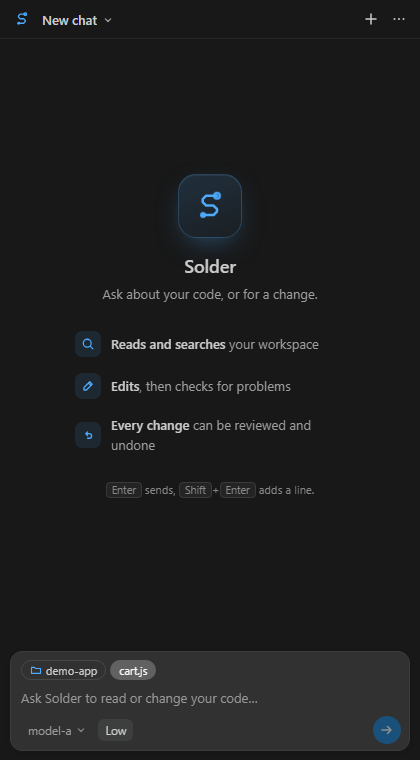
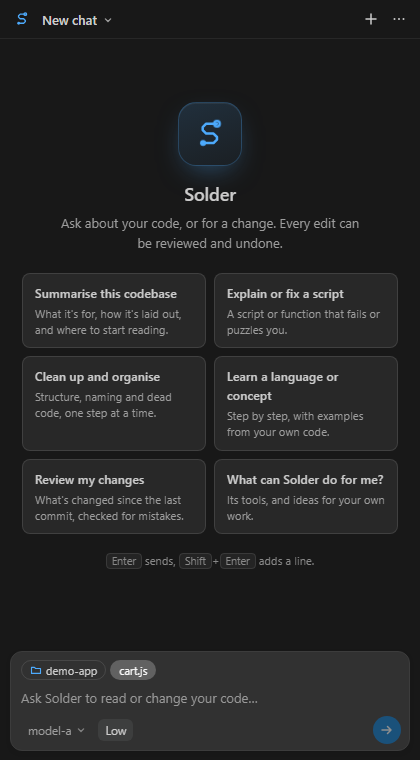
Starter cards on a new chat, as in Alloy
Six cards on the welcome screen, each sending a premade prompt and starting a chat
named after it: summarise this codebase, explain or fix a script, clean up and
organise (a plan first, nothing changed until you choose), learn a language or
concept, review my changes (new: Solder's changes tool), and what can Solder do for
me. The prompts live in prompt.js under the pin; the ask-first ones ask one to three
questions at a time, as Alloy's do. Theme-only colours, staggered entrance, lift on
hover; two columns that drop to one in a narrow panel.
Live (terra and sol): the review found the planted bug both times; the clean-up
changed nothing and proposed a plan both times; the summary read only a few files;
"what can Solder do" now says it doesn't run commands.

Changed region(s): [[0.0619, 0.1211, 0.9286, 0.6961], [0.2476, 0.7263, 0.7429, 0.7566]]

diff --git a/src/prompt.js b/src/prompt.js
@@ -286,6 +286,37 @@ searching again with other words.`,
     `Removed ${file}` + (files === null ? "" : ` (a folder with ${files.toLocaleString("en-US")} file${files === 1 ? "" : "s"})`) + ".",
 };
 
+/**
+ * The cards on a new chat's screen: clicking one sends its prompt, in the user's own words, and the chat is
+ * named after its title. Ask-first prompts ask one to three questions at a time, as Alloy's do.
+ */
+const STARTERS = [
+  { id: "summary", title: "Summarise this codebase", blurb: "What it's for, how it's laid out, and where to start reading.",
+    prompt: "Give me an overview of this codebase: what it's for, how it's organised, the main parts and how they fit \
+together, and where I should start reading. Look at its structure and key files first (outlines help with big ones), \
+read only what you need, and keep it to a short summary with file paths." },
+  { id: "script", title: "Explain or fix a script", blurb: "A script or function that fails or puzzles you.",
+    prompt: "I have a script or piece of code I'd like explained or fixed. Ask me where it is, what it should do and \
+what goes wrong (an error message, or what it does instead), one to three questions at a time. Read it before you \
+suggest anything, explain what you find in plain words, and tell me what you'd change before you change it." },
+  { id: "cleanup", title: "Clean up and organise", blurb: "Structure, naming and dead code, one step at a time.",
+    prompt: "I'd like to clean up and organise this codebase. Look at how it's laid out first, then suggest a short \
+plan: what you'd rename, move, merge or remove, and why, the most worthwhile first. Don't change anything until I've \
+said which parts to do; then do them one at a time and check for problems after each." },
+  { id: "learn", title: "Learn a language or concept", blurb: "Step by step, with examples from your own code.",
+    prompt: "I'd like to learn a coding language or concept. Ask me which one and what I already know, one to three \
+questions at a time. Then teach it step by step at my pace, with short examples, using code from this workspace where \
+it helps, and check I've understood before moving on." },
+  { id: "review", title: "Review my changes", blurb: "What's changed since the last commit, checked for mistakes.",
+    prompt: "Review my uncommitted changes. Look at what's changed since the last commit, read around the changes \
+where you need to, and tell me about anything that looks wrong or risky (bugs, missed cases, leftovers), the most \
+important first, with file and line. Don't change anything." },
+  { id: "intro", title: "What can Solder do for me?", blurb: "Its tools, and ideas for your own work.",
+    prompt: "What can you do for me in this chat? Tell me briefly, in plain words, what each of your tools lets you do \
+with my code, and what you can't do (such as running commands). Then ask me what I mostly work on, one to three questions at a time, and suggest \
+a few concrete things you could take off my hands." },
+];
+
 /** "(Wednesday, 4 November 2026, 14:05)": what each user message starts with. @param {Date} [now] */
 function timeNote(now = new Date()) {
   const day = now.toLocaleDateString("en-GB", { weekday: "long", day: "numeric", month: "long", year: "numeric" });
@@ -293,4 +324,4 @@ function timeNote(now = new Date()) {
   return `(${day}, ${time})`;
 }
 
-module.exports = { RULES, TOOLS, READ_ONLY, TEXTS, RESULTS, systemPrompt, toolDefinitions, timeNote };
+module.exports = { RULES, TOOLS, READ_ONLY, TEXTS, RESULTS, STARTERS, systemPrompt, toolDefinitions, timeNote };

diff --git a/media/panel.js b/media/panel.js
@@ -506,12 +506,13 @@
         `<div class="actions"><button class="link-button primary" data-action="refreshModels">Try again</button>` +
         `<button class="link-button" data-action="settings">Settings</button><button class="link-button" data-action="setKey">Set API key</button></div></div>`;
     }
-    const feature = (/** @type {string} */ icon, /** @type {string} */ html) => `<li><span class="ico">${icon}</span><span>${html}</span></li>`;
+    // Starter cards: each sends its prompt (from prompt.js, through the extension) and starts the chat.
+    const cards = (state.starters || []).map((/** @type {any} */ s, /** @type {number} */ i) =>
+      `<button class="starter" data-starter="${escape(s.id)}" style="--i:${i}"><span class="starter-title">${escape(s.title)}</span>` +
+      `<span class="starter-blurb">${escape(s.blurb)}</span></button>`).join("");
     return `<div class="welcome" data-enter="w:${state.chat.id}"><div class="logo">${ICONS.solder}</div><h2>Solder</h2>` +
-      `<p class="lead">Ask about your code, or for a change.</p><ul class="features">` +
-      feature(ICONS.search, "<b>Reads and searches</b> your workspace") +
-      feature(ICONS.edit, "<b>Edits</b>, then checks for problems") +
-      feature(ICONS.undo, "<b>Every change</b> can be reviewed and undone") + "</ul>" +
+      `<p class="lead">Ask about your code, or for a change. Every edit can be reviewed and undone.</p>` +
+      (cards && state.workspace ? `<div class="starters">${cards}</div>` : "") +
       (state.workspace ? `<p class="hint"><kbd>Enter</kbd> sends, <kbd>Shift</kbd>+<kbd>Enter</kbd> adds a line.</p>`
         : `<p class="aside">Open a folder first: Solder works inside a workspace.</p>`) + "</div>";
   }
@@ -805,11 +806,12 @@
 
   document.addEventListener("click", (event) => {
     const target = /** @type {HTMLElement} */ (event.target);
-    const el = /** @type {HTMLElement | null} */ (target.closest("[data-action],[data-sact],[data-sfield],[data-setup],[data-pick-model],[data-open],[data-model],[data-level],[data-chip],[data-undo],[data-review],[data-decide],[data-unsteer],[data-step],code.path,pre .copy"));
+    const el = /** @type {HTMLElement | null} */ (target.closest("[data-action],[data-starter],[data-sact],[data-sfield],[data-setup],[data-pick-model],[data-open],[data-model],[data-level],[data-chip],[data-undo],[data-review],[data-decide],[data-unsteer],[data-step],code.path,pre .copy"));
     if (!target.closest(".menu")) closeMenus();
     if (!el) return;
     const d = el.dataset;
     if (d.action) { closeMenus(); vscode.postMessage({ type: d.action }); }
+    else if (d.starter) { stickToBottom = true; vscode.postMessage({ type: "starter", id: d.starter }); }
     else if (d.sact) {
       if (el.hasAttribute("disabled")) return;
       if (d.sact === "key") {

diff --git a/src/panel.js b/src/panel.js
@@ -9,7 +9,7 @@ const fs = require("node:fs");
 const path = require("node:path");
 const { Engine, labelOf, parseArguments } = require("./engine.js");
 const { GatewayClient, GatewayError } = require("./gateway.js");
-const { systemPrompt } = require("./prompt.js");
+const { systemPrompt, STARTERS } = require("./prompt.js");
 const { ChatStore } = require("./store.js");
 const { WorkspaceTools } = require("./tools.js");
 const { SetupWizard } = require("./setup.js");
@@ -188,6 +188,7 @@ class SolderPanel {
     switch (message.type) {
       case "ready": this.post(); this.postEditor(); return;
       case "send": return this.send(message);
+      case "starter": return this.start(String(message.id || ""));
       case "stop": this.engine.stop(); return;
       case "resume": this.error = null; this.tools.useFolder(this.chat.folder); this.engine.resume(this.chat); return;
       case "decide": this.engine.decide(message.id, { decision: message.decision, note: message.note }); return;
@@ -261,6 +262,14 @@ class SolderPanel {
   }
 
   /** @param {{text: string, selection?: boolean, file?: boolean}} message */
+  /** A starter card: its prompt, as your first message, in a chat named after it. @param {string} id */
+  async start(id) {
+    const starter = STARTERS.find((s) => s.id === id);
+    if (!starter || this.engine.busy || this.chat.messages.length) return;
+    this.chat.title = starter.title;
+    await this.send({ text: starter.prompt });
+  }
+
   async send(message) {
     const text = String(message.text || "").trim();
     if (!text) return;
@@ -377,6 +386,7 @@ class SolderPanel {
       credits: this.credits,
       steers: [...this.engine.steers],
       workspace: !!this.tools.root(),
+      starters: STARTERS.map((s) => ({ id: s.id, title: s.title, blurb: s.blurb })),
       setup: this.setup.view,
       settings: this.setup.view ? null : this.settingsScreen.view,
     });

diff --git a/media/panel.css b/media/panel.css
@@ -155,6 +155,16 @@ svg circle { fill: currentColor; stroke: none; }
 .welcome.enter :is(.actions, .aside) { animation-delay: calc(var(--age, 0ms) + 240ms); }
 .welcome.enter .hint { animation: rise var(--t-slow) var(--ease) both; animation-delay: calc(var(--age, 0ms) + 410ms); }
 .welcome.enter .features li { animation: rise var(--t-slow) var(--ease) both; animation-delay: calc(var(--age, 0ms) + 260ms); }
+/* starter cards: a two-column grid that drops to one in a narrow panel */
+.starters { display: grid; grid-template-columns: repeat(auto-fit, minmax(150px, 1fr)); gap: 8px; width: 100%; max-width: 460px; margin: 20px 0 0; text-align: left; }
+.starter { display: flex; flex-direction: column; align-items: flex-start; gap: 3px; padding: 10px 12px; text-align: left; border-radius: var(--r); border: 1px solid var(--line);
+  background: var(--raised); color: var(--fg); transition: border-color var(--t) var(--ease), background-color var(--t) var(--ease), transform var(--t) var(--ease); }
+.starter:hover { border-color: color-mix(in srgb, var(--link) 55%, var(--line)); background: color-mix(in srgb, var(--link) 7%, var(--raised)); transform: translateY(-1px); }
+.starter:active { transform: translateY(0) scale(0.99); }
+.starter:focus-visible { outline: 1px solid var(--focus); outline-offset: 1px; }
+.starter-title { font-weight: 600; font-size: 0.95em; }
+.starter-blurb { color: var(--muted); font-size: 0.86em; line-height: 1.4; }
+.welcome.enter .starter { animation: rise var(--t-slow) var(--ease) both; animation-delay: calc(var(--age, 0ms) + 240ms + var(--i, 0) * 45ms); }
 .welcome.enter .features li:nth-child(2) { animation-delay: calc(var(--age, 0ms) + 310ms); }
 .welcome.enter .features li:nth-child(3) { animation-delay: calc(var(--age, 0ms) + 360ms); }
 

diff --git a/test/prompt.test.js b/test/prompt.test.js
@@ -7,9 +7,9 @@
 const test = require("node:test");
 const assert = require("node:assert/strict");
 const crypto = require("node:crypto");
-const { RULES, TOOLS, READ_ONLY, TEXTS, RESULTS, systemPrompt, toolDefinitions, timeNote } = require("../src/prompt.js");
+const { RULES, TOOLS, READ_ONLY, TEXTS, RESULTS, STARTERS, systemPrompt, toolDefinitions, timeNote } = require("../src/prompt.js");
 
-const PINNED = "1e3116bb5f212d5a";
+const PINNED = "c78d8dade2d01081";
 
 /** Sample arguments for every text that's a function: name → a list of argument lists. */
 const SAMPLES = {
@@ -49,6 +49,7 @@ function everything() {
     bare: systemPrompt({ workspace: "C:\\work" }),
     withDocs: systemPrompt({ workspace: "C:\\work", docs: [{ path: "D:\\Docs", about: "ABOUT" }, { path: "E:\\Specs" }] }),
     tools: toolDefinitions(),
+    starters: STARTERS,
     texts: filled(TEXTS, SAMPLES, "TEXTS"),
     results: filled(RESULTS, RESULT_SAMPLES, "RESULTS"),
     time: timeNote(new Date(2026, 10, 4, 14, 5)),

diff --git a/README.md b/README.md
@@ -13,7 +13,7 @@
    - **your default model;**
    - **your own docs folders:** optional, see [Your docs](#your-docs);
    - **a few rules about you and your code:** optional, for example "We target Python 3.10" or "Never edit files under `generated/`".
-3. **Ask.** Type in the box at the bottom and press **Enter**; **Shift+Enter** adds a new line.
+3. **Ask.** Type in the box at the bottom and press **Enter**; **Shift+Enter** adds a new line. Or pick one of the cards on a new chat: summarise the codebase, explain or fix a script, clean up, learn something, review your changes, or ask what Solder can do.
 
 ![Guided setup: choosing the default model](media/screenshots/guided-setup.png)
 
